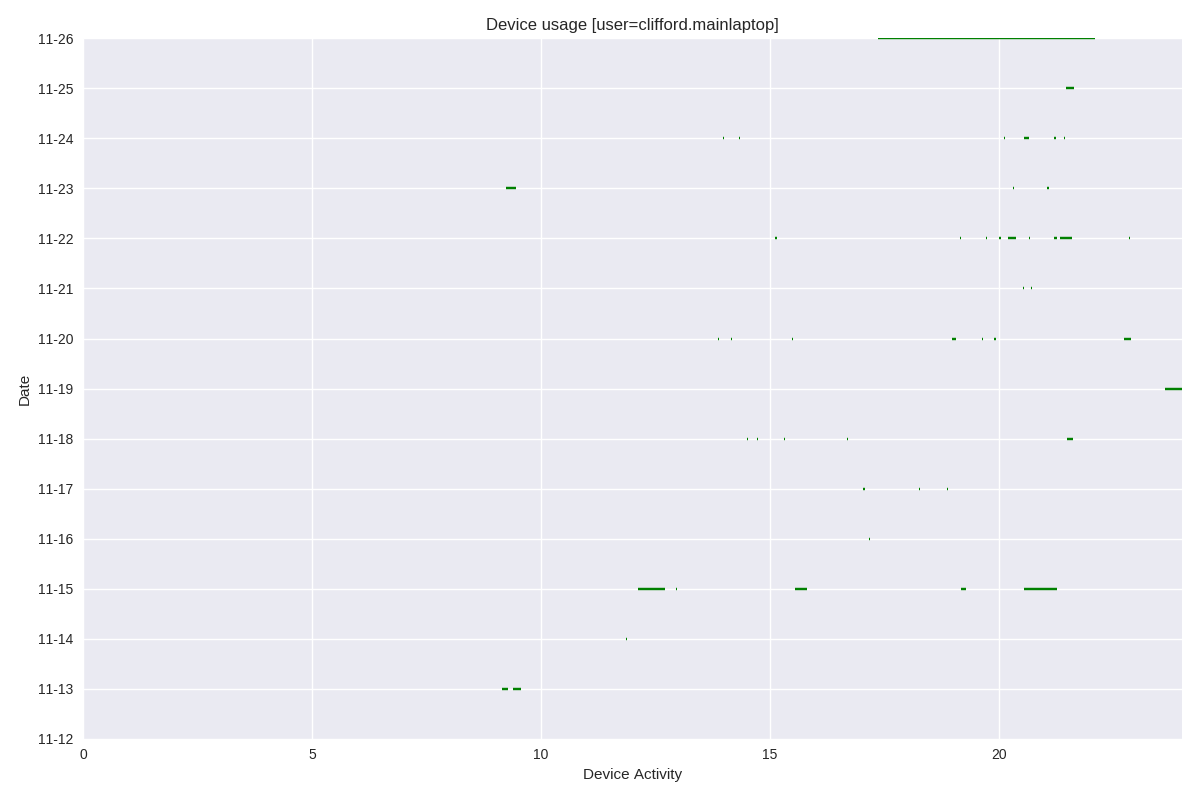
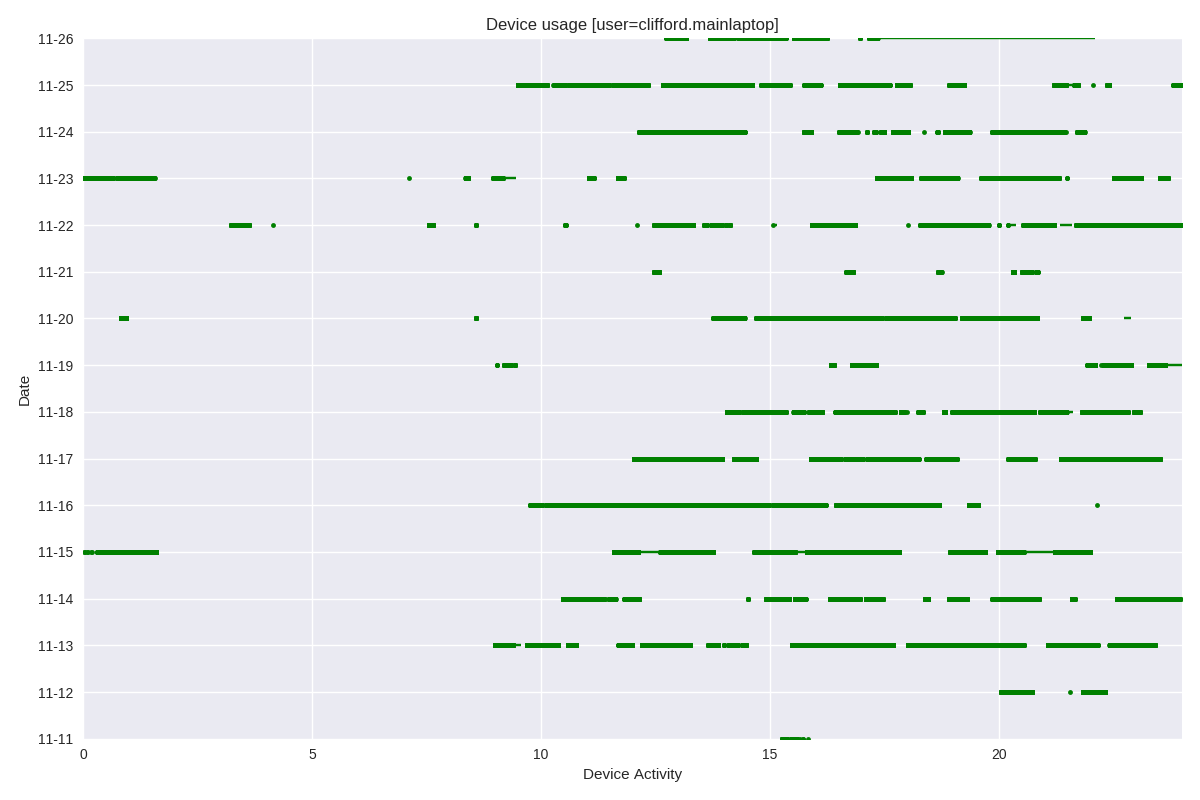
correct plot for activity usage

diff --git a/inter_event_time_analysis_activities.py b/inter_event_time_analysis_activities.py
@@ -46,6 +46,10 @@ def main():
             FROM activities \
             WHERE session_id = :d_id AND fullscreen = 1"""
 
+            sql_io = """SELECT logged_at \
+            FROM io \
+            WHERE session_id = :d_id"""
+
             beg = []
             end = []
             print (device.device_id + '==============')
@@ -53,17 +57,22 @@ def main():
                 beg.append(row[0])
                 end.append(row[1])
 
-            if beg:
-                plot_traces(beg, end, device.device_id)
+            io = []
+            for row in ses.execute(text(sql_io).bindparams(d_id = device.id)):
+                io.append(row[0])
+
+            plot_traces(beg, end, io, device.device_id)
 
 
-def plot_traces(beg, end, user): 
+def plot_traces(beg, end, io, user): 
 
     fig, ax = plt.subplots(1, 1, figsize=(12, 8))
     x_beg = []
     x_end = []
     y = []
     y_label = []
+    x_io = []
+    y_io = []
 
     cont = 0
     for timst in beg:
@@ -74,19 +83,31 @@ def plot_traces(beg, end, user):
         y.append(timst.date())
         cont = cont + 1
 
+    for timst in io:
+        x_io.append(timst.hour+timst.minute/60.0+timst.second/3600.0)
+        y_io.append(timst.date())
+
     y_label = list(set(y))
     hfmt = dates.DateFormatter('%m-%d')
     ax.yaxis.set_major_formatter(hfmt)
     #ax.plot(x,y, '.g')
-    print 'x_beg'
-    print x_beg
-    print 'x_end'
-    print x_end
+    #print 'x_beg'
+    #print x_beg
+    #print 'x_end'
+    #print x_end
+
     ax.hlines(y, x_beg, x_end, 'g')
+    ax.plot(x_io, y_io, '.g')
     ax.set_title('Device usage [user=%s]'%(user))
     ax.set_ylabel('Date')
-    ax.set_yticks(y_label)
-    ax.set_ylim(min(y_label), max(y_label))
+    ax.set_yticks(list(set(y_io).union(y_label)))
+    if y_label and y_io:
+        ax.set_ylim(min(min(y_label),min(y_io)), max(max(y_label),max(y_io)))
+    elif y_io:
+        ax.set_ylim(min(y_io), max(y_io))
+    elif y_label:
+        ax.set_ylim(min(y_label), max(y_label))
+
     ax.set_xlabel('Device Activity')
     ax.set_xlim(0,24)
 
